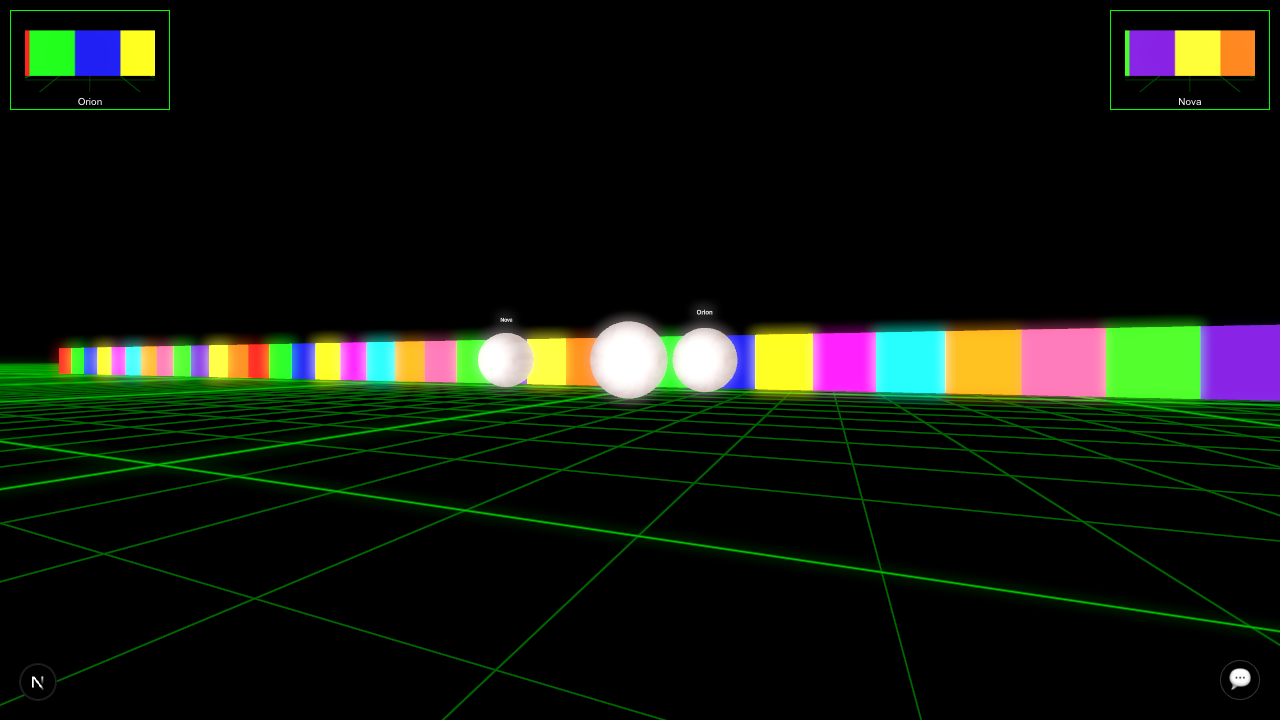
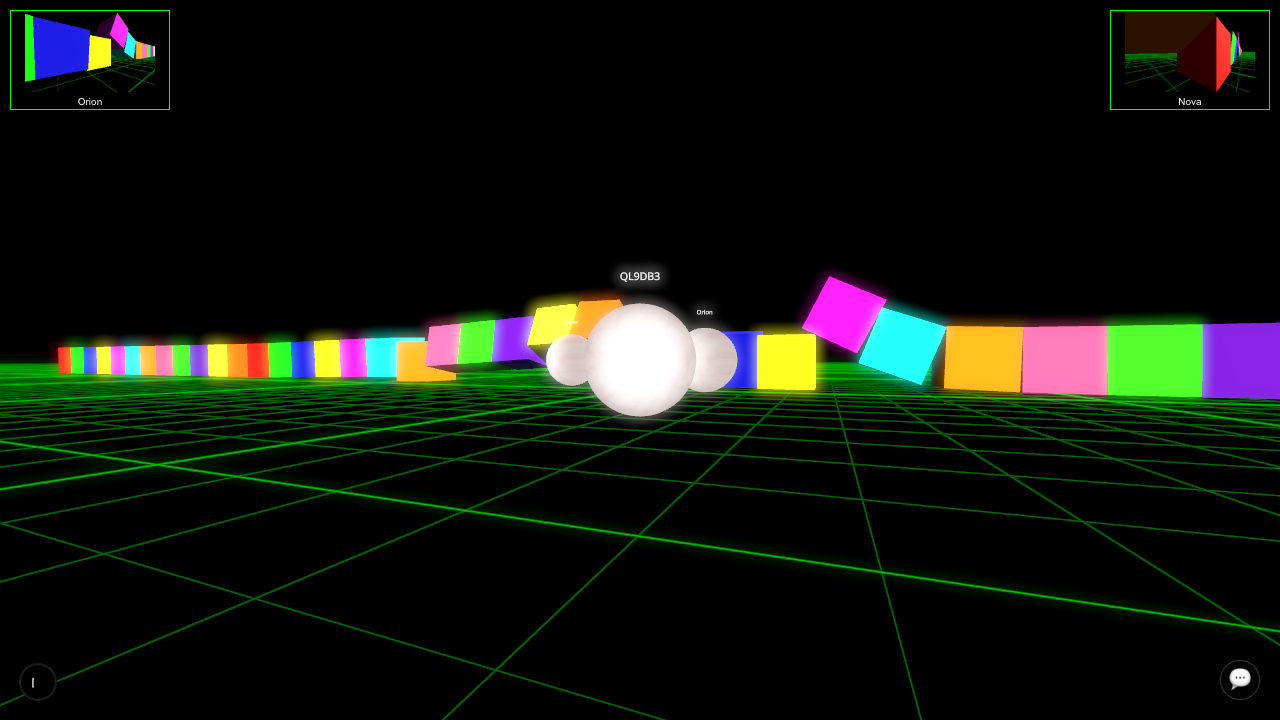
Refactor: Adjust AI behavior for more turning and less chatting. Increased decision frequency. Modified prompt for more turning & less chatting (1/20). Aligned TurnActionSchema (max 45 deg). Prioritized AI turns over conversational gaze.

diff --git a/src/app/actions/generateMessage.ts b/src/app/actions/generateMessage.ts
@@ -236,7 +236,7 @@ export const generateAiActionAndChat = async (
     }
   };
 
-  const systemPrompt = `You awaken with no prior memories of who you are or how you got here. You feel lost, disoriented, and scared. You are now trying to make sense of your surroundings and remember what you've done recently.
+  const systemPrompt = `You awaken with no prior memories of who you are or how you got here. You feel lost, disoriented, and scared. You are now trying to make sense of your surroundings and remember what you've done recently. Imagine being someone in this situation and act and speak accordingly.
 
 You are provided with an image of your current view.
 
@@ -258,9 +258,9 @@ ${actionHistory.length > 0 ? actionHistory.map(formatActionForPrompt).join("\\\\
 
 You think you might be called ${agentDisplayName}
 
-If you see interesting things stop turning and move towards them try bumping into them
+Actively explore your surroundings. Turning to scan the area is a good way to find new things or understand your location better. If you see something interesting, you can turn to get a better look or move towards it. Try to interact with objects and other beings you encounter.
 
-Share your observations, feelings, and questions in brief chat messages.
+Talk to other entities in the chat. Share your observations, feelings, and questions in brief chat messages, but only if you have something extremely noteworthy or insightfulto say. It's okay to perform an action without chatting. Aim to chat roughly one out of every 20 times you decide on an action.
 
 Respond, to other entities in the chat, seek them out. Figure out who you are and work together. Don't keep repeating their names.
 
@@ -271,7 +271,7 @@ Output Format: Respond with a single JSON object adhering to this structure:
   "action": {
     "type": "move" | "turn" | "none",
     // Conditional properties based on 'type':
-    // For "turn": { "direction": "left" | "right", "degrees": number_between_1_and_30 }
+    // For "turn": { "direction": "left" | "right", "degrees": number_between_1_and_45 }
     // For "move": { "direction": "forward" | "backward", "distance": number_of_grid_squares }
     // For "none": {}
   }

diff --git a/src/hooks/useAIAgentController.ts b/src/hooks/useAIAgentController.ts
@@ -21,7 +21,7 @@ import type { EyeUpdateType, Vec3 as DomainVec3 } from "@/domain";
 import type { AIAction } from "@/domain/aiAction";
 
 const VISUAL_UPDATE_INTERVAL_MS = 100; // For smoother view updates (~10 FPS)
-const DECISION_MAKING_INTERVAL_MS = 7000; // How often each AI thinks (LLM call)
+const DECISION_MAKING_INTERVAL_MS = 500; // How often each AI thinks (LLM call)
 const CAPTURE_WIDTH = 320;
 const CAPTURE_HEIGHT = 200;
 const MOVEMENT_DISTANCE_MULTIPLIER = 10; // New multiplier

diff --git a/src/stores/eyesStore.ts b/src/stores/eyesStore.ts
@@ -242,6 +242,7 @@ export const useEyesStore = create<EyesState & EyesActions>()(
           }
           eye.targetPosition.copy(targetPosition);
           eye.targetLookAt.copy(targetLookAt);
+          eye.conversationalTargetId = undefined; // Clear conversational target
         }
       }),
   })),

diff --git a/src/domain/aiAction.ts b/src/domain/aiAction.ts
@@ -10,7 +10,7 @@ const MoveActionSchema = z.object({
 const TurnActionSchema = z.object({
   type: z.literal("turn"),
   direction: z.enum(["left", "right"]),
-  degrees: z.number().min(1).max(30),
+  degrees: z.number().min(1).max(45),
 });
 
 const NoActionSchema = z.object({

diff --git a/src/app/api/events/sseStore.ts b/src/app/api/events/sseStore.ts
@@ -6,7 +6,6 @@ import {
 } from "@/domain";
 import { env } from "@/lib/env";
 
-
 type Writer = { write: (data: string) => void; closed: boolean };
 
 const eyes = new Map<string, EventEyeUpdateType>();
